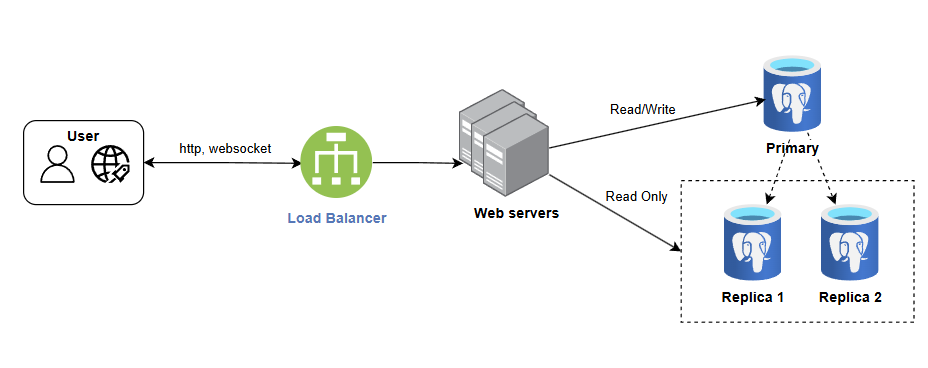
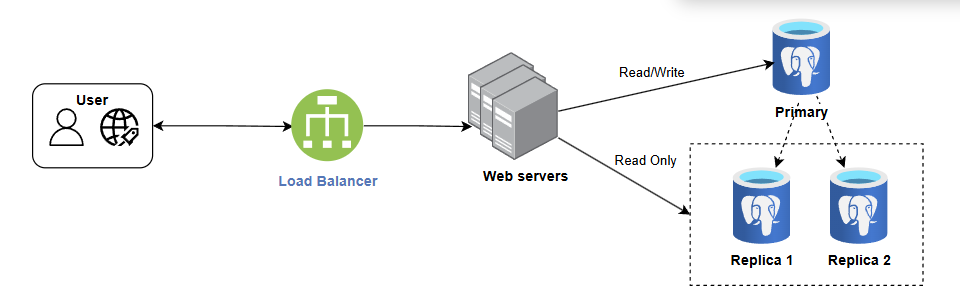
Change to SSE

diff --git a/gaming-leaderboard/DESIGN.md b/gaming-leaderboard/DESIGN.md
@@ -7,25 +7,25 @@
 - Keep the system evolvable so that sharding or additional Redis replicas can be introduced later with minimal refactor.
 
 ## 2. High-Level Architecture
-- **Clients** (web/mobile) interact through HTTPS + WebSocket connections exposed by the API Gateway.
+- **Clients** (web/mobile) interact through HTTPS + Server-Sent Events (SSE) connections exposed by the API Gateway.
 - **API Service** handles REST requests for score submissions, leaderboard fetches, and user rank queries; it enforces authentication using OAuth 2.0 bearer tokens.
 - **Score Command Service** receives validated score submissions from the API Service, persists the score change to PostgreSQL, and emits a message to Kafka for downstream processing.
 - **Kafka** acts as the backbone for asynchronous score processing. The primary topic (`score-events`) carries score updates to downstream consumers. A secondary compacted topic (`leaderboard-notifications`) drives throttled leaderboard pushes to subscribers.
 - **Score Projection Worker** (Kafka consumer) processes score events, updates Redis sorted sets, refreshes cached top-10 payloads, and publishes notification triggers when the top-10 meaningfully changes.
 - **Redis (single instance)** stores leaderboard data (`ZSET`) and cached payloads for top-10 responses.
 - **PostgreSQL** remains the system of record for users and their historical scores.
-- **WebSocket Broadcaster** subscribes to leaderboard notifications and pushes updates to connected clients at the throttled cadence.
+- **SSE Broadcaster** subscribes to leaderboard notifications and streams updates to connected clients at the throttled cadence.
 
 ```mermaid
 flowchart LR
-    Clients((Clients)) -->|HTTPS/WS| API[API Service]
+    Clients((Clients)) -->|HTTPS| API[API Service]
     API -->|Persist score| PG[(PostgreSQL)]
     API -->|Publish events| Kafka[(Kafka)]
     Kafka --> Worker[Score Projection Worker]
     Worker -->|ZADD/ZRANGE| Redis[(Redis)]
     Worker -->|Notify| Notifier[Leaderboard Notifier]
-    Notifier --> WS[WebSocket Broadcaster]
-    WS -->|Broadcast| Clients
+    Notifier --> SSE[SSE Broadcaster]
+    SSE -->|SSE stream| Clients
     API -->|Read leaderboards| Redis
 ```
 
@@ -42,8 +42,9 @@ flowchart LR
   - Consumes Kafka events, updates Redis sorted sets using `ZADD` and `ZREVRANK`.
   - Maintains a cached JSON blob for the global top 10 (`GET/SET current_top_10`) with a short TTL (e.g., 1s) to reduce Redis load for high read volumes.
   - Emits lightweight messages to `leaderboard-notifications` when a top-10 entry changes score or membership after throttling.
-- **WebSocket Broadcaster**
-  - Listens to notification topic, queries Redis for the latest top 10, and pushes updates to subscribed clients with rate limits (e.g., max 1 update per 500ms per leaderboard channel).
+- **SSE Broadcaster**
+  - Listens to notification topic, queries Redis for the latest top 10, and streams updates over long-lived HTTP responses with rate limits (e.g., max 1 update per 500ms per leaderboard channel).
+  - Uses SSE reconnection semantics (`Last-Event-ID`) so clients can resume streams after transient disconnects without missing updates.
 - **Operational Console / Admin UI** (optional)
   - Permits support staff to reprocess events, inspect Redis state, and replay Kafka partitions.
 
@@ -145,7 +146,7 @@ sequenceDiagram
     participant K as Kafka
     participant W as Score Projection Worker
     participant R as Redis
-    participant WS as WebSocket Broadcaster
+    participant SSE as SSE Broadcaster
 
     C->>API: POST /scores
     API->>PG: Write new score + version
@@ -156,9 +157,9 @@ sequenceDiagram
     K-->>W: Deliver event
     W->>R: ZADD / rank lookup / cache top 10
     W->>K: Emit leaderboard notification
-    K-->>WS: Deliver notification
-    WS->>R: Fetch cached top 10
-    WS-->>C: Push update (WebSocket)
+    K-->>SSE: Deliver notification
+    SSE->>R: Fetch cached top 10
+    SSE-->>C: Push update (SSE)
 ```
 
 1. Client sends `POST /scores` with `{ "score": 4500 }` and authorization token.
@@ -175,7 +176,7 @@ sequenceDiagram
    - Read cached `leaderboard:top10`; if stale or missing, recompute via `ZRANGE leaderboard:global 0 9 REV WITHSCORES` and `SET` the JSON payload with TTL.
    - Detect top-10 change by comparing against previous snapshot (persist last snapshot hash in Redis key `leaderboard:last_digest`).
    - When changed, publish notification message to `leaderboard-notifications` (subject to throttle rules described in §8).
-8. WebSocket Broadcaster receives notification, loads `leaderboard:top10`, and broadcasts to clients subscribed to the global leaderboard channel.
+8. SSE Broadcaster receives notification, loads `leaderboard:top10`, and streams to clients subscribed to the global leaderboard channel.
 
 ### 6.2 Get Top 10 Flow
 
@@ -256,7 +257,7 @@ flowchart TD
 ## 8. Throttling & Rate Control
 - Projection Worker maintains a Redis key (`leaderboard:last_emit_ts`) storing the timestamp of the last notification.
 - Only publish a new notification if at least 500ms elapsed or if the top-10 membership changed.
-- WebSocket layer enforces per-connection rate limiting (e.g., 20 updates/minute) to protect clients.
+- SSE layer enforces per-connection rate limiting (e.g., 20 updates/minute) to protect clients.
 - REST `GET /leaderboard/top` can be served entirely from `leaderboard:top10` cache. If cache miss occurs, recompute on-demand and set TTL.
 
 ## 9. API Contract (Draft)
@@ -284,7 +285,7 @@ Response: {
 ## 10. Operational Considerations
 - **Redis Availability**: Single instance with AOF + RDB + automated backups. Deploy using managed service or run Redis with systemd + sentinel in monitor-only mode for alerting. Expect failover window in disaster scenario; document manual promotion plan.
 - **Monitoring**:
-  - Metrics: Redis memory usage, command latency, Kafka consumer lag, API latency, WebSocket broadcast counts.
+  - Metrics: Redis memory usage, command latency, Kafka consumer lag, API latency, SSE broadcast counts.
   - Logs: Structured JSON logs with request IDs; Kafka consumer logs include offsets and errors.
   - Alerts: High consumer lag, Redis memory > 70%, API error rate > 1%, nightly RDB failure.
 - **Scaling**:
@@ -310,7 +311,7 @@ Response: {
   - If event duplication occurs, idempotency via `version` prevents double-apply in Redis.
 - **PostgreSQL outage**:
   - API rejects write operations with clear error. Reads still served from Redis but marked as eventually consistent.
-- **WebSocket broadcaster failure**:
+- **SSE broadcaster failure**:
   - Clients fallback to polling `GET /leaderboard/top` until broadcaster recovers.
 
 ## 12. Testing & Observability
@@ -322,5 +323,5 @@ Response: {
 ## 13. Roadmap Considerations
 - Introduce Redis Cluster when DAU approaches 50M or memory pressure > 60%.
 - Add regional caches/CDN for read-heavy deployments.
-- Extract WebSocket broadcaster into dedicated service with horizontal scaling and sharded channels.
+- Extract SSE broadcaster into dedicated service with horizontal scaling and sharded channels.
 - Explore CQRS: separate read API service that only interacts with Redis for further scale.

diff --git a/gaming-leaderboard/README.md b/gaming-leaderboard/README.md
@@ -95,7 +95,7 @@ sequenceDiagram
     participant API as API Service
     participant PG as PostgreSQL
     participant R as Redis
-    participant WS as WebSocket Broadcaster
+    participant SSE as SSE Broadcaster
 
     C->>API: POST /scores
     API->>PG: Write new score
@@ -106,8 +106,8 @@ sequenceDiagram
     API->>API: Compare new top 10 with current top 10
     alt Top 10 changed
       API->>R: SET new top 10
-      API->>WS: Deliver notification
-      WS-->>C: Push update (WebSocket)
+      API->>SSE: Deliver notification
+      SSE-->>C: Stream update (SSE)
     end
     API->>R: ZREVRANK
     R->>API: New rank of user
@@ -122,6 +122,8 @@ GET current_top_10
 ZRANGE leaderboard 0 9 REV WITHSCORES
 SET current_top_10 "[(user1,score1),(user2,score2),...]"
 ```
+
+The SSE broadcaster maintains a long-lived HTTP response per subscriber so leaderboard changes propagate without requiring bidirectional WebSocket infrastructure.
 
 #### 2. A user fetchs the top 10 global leaderboard
 ```mermaid
@@ -195,6 +197,6 @@ In the event the Redis cluster experiences a large-scale failure, we have a clea
 
 Further improvement:
 ------
-- Decouple Front-end Services: Separate the web server (handling static content and API calls) from the WebSocket server (handling real-time updates) and implement service discovery to manage communication between them.
+- Decouple Front-end Services: Separate the web server (handling static content and API calls) from the SSE broadcaster (handling real-time updates) and implement service discovery to manage communication between them.
 - Adopt Microservices: Transition to a microservice architecture by breaking the system into multiple smaller, independent services. This will allow for independent development, deployment, and granular scaling of each function.
 - Adopt CQRS: Split the write (command) and read (query) responsibilities into distinct services to simplify scaling and enable specialized optimizations for each workload.
